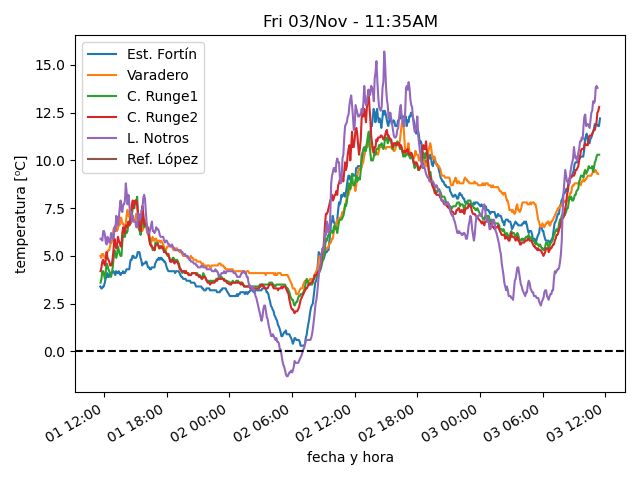
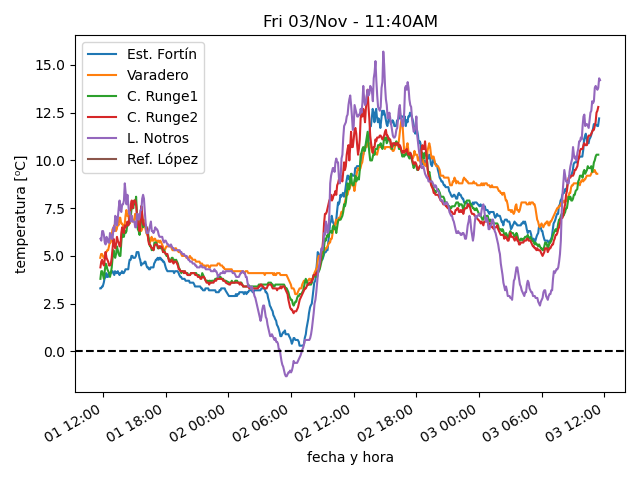
actualiza datos

diff --git a/estaciones/estacion5.html b/estaciones/estacion5.html
@@ -18,27 +18,27 @@
     </tr>
     <tr>
      <td class="stats_data">
-      11:15AM
+      11:35AM
      </td>
     </tr>
     <tr>
      <td class="stats_data">
-      13.8⁰C
+      14.2⁰C
      </td>
     </tr>
     <tr>
      <td class="stats_data">
-      2.5⁰C
+      3.2⁰C
      </td>
     </tr>
     <tr>
      <td class="stats_data">
-      46.0%
+      47.0%
      </td>
     </tr>
     <tr>
      <td class="stats_data">
-      1021.17hPa
+      1020.96hPa
      </td>
     </tr>
     <tr>
